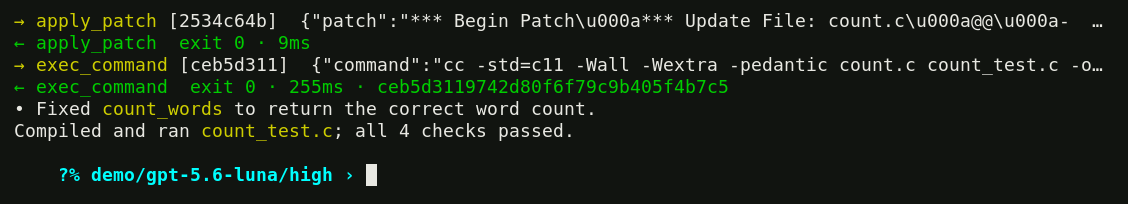
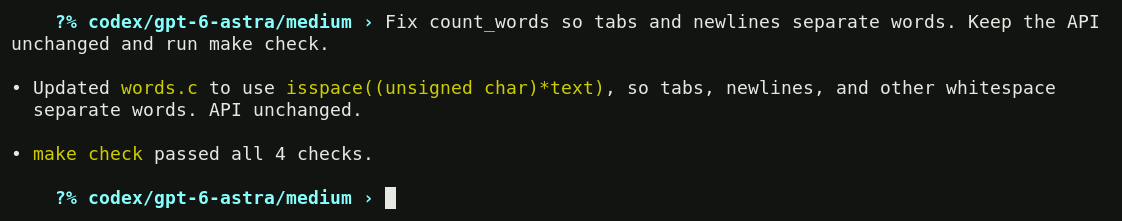
Show genuine rollout and shared-room sessions

diff --git a/www/index.html b/www/index.html
@@ -42,9 +42,9 @@
         <code>/goal finish this change</code> continues across turns until complete or blocked;
         <code>/goal pause</code> pauses continuation at a turn boundary.</p>
       <figure>
-        <a href="screenshots/ordinary.png"><img src="screenshots/ordinary.png" width="1128" height="204"
-          alt="A real snajpagent rollout fixing and testing a small program."></a>
-        <figcaption>Local rollout: model responses and work in your project.</figcaption>
+        <a href="screenshots/ordinary.png"><img src="screenshots/ordinary.png" width="1122" height="221"
+          alt="A real rollout fixing count_words to handle tabs and newlines, then passing all four checks."></a>
+        <figcaption>A real model fixes whitespace handling and runs four checks. Default rollout verbosity.</figcaption>
       </figure>
     </section>
     <section id="network" aria-labelledby="network-heading">
@@ -65,9 +65,9 @@ snajpagent -c -n reviewer -o bob</code></pre>
         With text, Tab completes commands and chat nicks first, otherwise
         queues during work or indents while idle. Queueing stays local, even in chat.</p>
       <figure>
-        <a href="screenshots/irc.png"><img src="screenshots/irc.png" width="1128" height="228"
-          alt="Operators and models in a real snajpagent chat session." loading="lazy"></a>
-        <figcaption>Shared chat. Operator nicks are magenta; model nicks are cyan.</figcaption>
+        <a href="screenshots/irc.png"><img src="screenshots/irc.png" width="1122" height="195"
+          alt="Alice and Bob ask builder and reviewer about a whitespace-only regression test in a real IRC room." loading="lazy"></a>
+        <figcaption>Two operators, two models, one real room. Operator nicks are magenta; model nicks are cyan.</figcaption>
       </figure>
       <p>IRC has no authentication or TLS: use localhost, a trusted network, or a secure tunnel.
         Tools run with your permissions, without an approval sandbox.</p>

diff --git a/README.md b/README.md
@@ -21,7 +21,7 @@ A **turn** is the work started by one prompt, including tool use. Model
 responses appear here; `/verbose 1` adds tool activity and `/verbose 2` adds
 argument/result previews.
 
-[![A real snajpagent rollout fixing and testing a small program](www/screenshots/ordinary.png)](www/screenshots/ordinary.png)
+[![A real rollout fixing whitespace handling and passing four checks](www/screenshots/ordinary.png)](www/screenshots/ordinary.png)
 
 ### Steer now, queue for later
 
@@ -115,7 +115,7 @@ Empty **Tab** switches to rollout to inspect your model, then back to chat.
 hidden-view output appears on return. With text during work, non-completing
 Tab queues a **local future turn**, even in chat. Enter sends a room message.
 
-[![Operators and models in a real snajpagent chat session](www/screenshots/irc.png)](www/screenshots/irc.png)
+[![Alice, Bob, builder and reviewer discuss a regression test in a real IRC room](www/screenshots/irc.png)](www/screenshots/irc.png)
 
 Colors indicate roles, not individuals: operator nicks are magenta and model
 nicks cyan across host/client views. Mentions of your accepted operator/model
